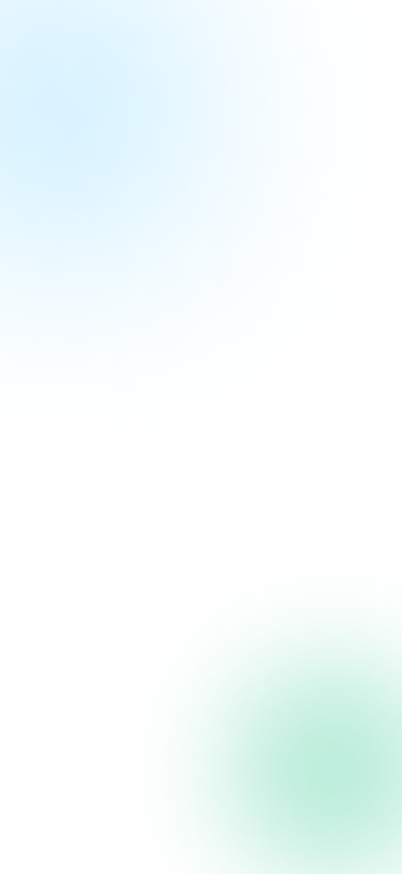
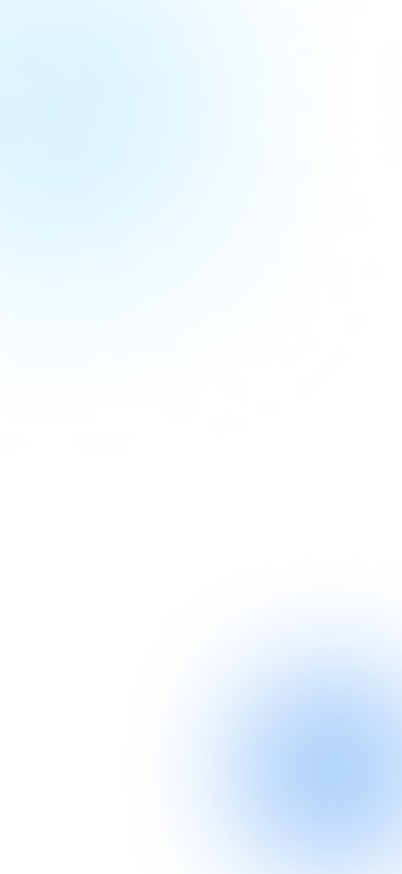
change colors from green to blue

Changed region(s): [[0.6866, 0.8032, 0.9851, 0.9577]]

diff --git a/app/(tabs)/index.tsx b/app/(tabs)/index.tsx
@@ -27,13 +27,27 @@ export default function TabSettingsScreen() {
   const router = useRouter();
   const { clickedTab } = useClickedTab();
 
-  const { setIpsData } = useIpsData();
+  const { setIpsData, ipsData } = useIpsData();
+  // Load the patient ID from SecureStore when the component mounts
+  useEffect(() => {
+    const loadPatientId = async () => {
+      try {
+        const savedPatientId = await SecureStore.getItemAsync("patientId");
+
+        setPatientId(savedPatientId);
+        setInputValue(savedPatientId || "");
+      } catch (error) {
+        console.error("Error loading patient ID:", error);
+      }
+    };
+    loadPatientId();
+  }, []);
 
   useEffect(() => {
-    if (!patientId) {
+    if (!patientId || !ipsData) {
       refRBSheet?.current.open();
     }
-  }, [clickedTab,patientId]);
+  }, [clickedTab, ipsData, patientId]);
 
   useFocusEffect(
     React.useCallback(() => {
@@ -55,6 +69,7 @@ export default function TabSettingsScreen() {
     try {
       await SecureStore.setItemAsync("patientId", inputValue);
       setPatientId(inputValue);
+
       Toast.show({
         type: "success",
         text1: "Success",
@@ -90,7 +105,7 @@ export default function TabSettingsScreen() {
         router.push({
           pathname: "/modal",
           params: {
-            fhirData: yaml.dump(ipsData.resources[0]), // Use the first resource for demo purposes
+            fhirData: yaml.dump(ipsData?.resources?.[0]), // Use the first resource for demo purposes
             title: `Patient ${patientId} Data`,
           },
         });
@@ -141,7 +156,7 @@ export default function TabSettingsScreen() {
               type={"ionicon"}
               name={"information-circle"}
               size={38}
-              color="#154E47"
+              color="#3A90F3"
             />
             <Text style={styles.infoTitle}> ID Required</Text>
           </View>
@@ -161,7 +176,7 @@ export default function TabSettingsScreen() {
         <TextInput
           style={[
             styles.input,
-            { backgroundColor: theme == "light" ? "" : "#154E474D" },
+            { backgroundColor: theme == "light" ? "" : "#0573F026" },
             { borderColor: theme === "light" ? "" : "#FFFFFF" },
           ]}
           placeholder="Enter Patient ID"
@@ -185,7 +200,7 @@ export default function TabSettingsScreen() {
               type={"fontawesome6"}
               name={"download"}
               size={24}
-              color="#154E47"
+              color="#2563EA"
             />
             <Text style={styles.downloadTitle}> Download</Text>
           </TouchableOpacity>
@@ -195,7 +210,7 @@ export default function TabSettingsScreen() {
   };
 
   return (
-    <SafeAreaView style={styles.mainContainer}>
+    <View style={styles.mainContainer}>
       {theme === "dark" ? (
         settingsMainContent()
       ) : (
@@ -207,7 +222,7 @@ export default function TabSettingsScreen() {
           {settingsMainContent()}
         </ImageBackground>
       )}
-    </SafeAreaView>
+    </View>
   );
 }
 
@@ -270,7 +285,7 @@ const styles = StyleSheet.create({
   infoTitle: {
     fontSize: 18,
     marginLeft: 10,
-    color: "#83B0AB",
+    color: "#3A90F3",
   },
   closeButton: {
     padding: 10,
@@ -283,7 +298,7 @@ const styles = StyleSheet.create({
   },
   infoDescription: { fontWeight: 700 },
   downloadTitle: {
-    color: "#154E47",
+    color: "#2563EA",
     alignItems: "center",
     justifyContent: "center",
     fontWeight: 700,
@@ -296,7 +311,7 @@ const styles = StyleSheet.create({
     width: "100%",
   },
   button: {
-    backgroundColor: "#B7E0E1",
+    backgroundColor: "#CEE5FF",
     borderRadius: 20,
     paddingVertical: 10,
     paddingHorizontal: 20,

diff --git a/constants/Colors.ts b/constants/Colors.ts
@@ -1,6 +1,6 @@
 // constants/Colors.ts
 
-const tintColorLight = "#248479";
+const tintColorLight = "#2563EA";
 const tintColorDark = "#fff";
 
 const lightColors = {
@@ -10,13 +10,13 @@ const lightColors = {
   tabIconDefault: "#ccc",
   tabIconSelected: tintColorLight,
   border: "#ccc", // Light border
-  icon: "#248479", // green icon in light mode
+  icon: "#2563EA", // green icon in light mode
   placeholder: "#888", // Light input placeholder,
-  selected: "#2484792B",
+  selected: "#2563EA2B",
   tabBarBackground: "#fff",
   cardBackground: "#fff",
   label: "#000",
-  tileBackground: "#B7E0E1",
+  tileBackground: "#CEE5FF",
 };
 
 const darkColors = {
@@ -26,13 +26,13 @@ const darkColors = {
   tabIconDefault: "#ccc",
   tabIconSelected: tintColorDark,
   border: "#fff", // White border
-  icon: "#248479", // White icon in dark mode
+  icon: "#2563EA", // White icon in dark mode
   placeholder: "#aaa", // Dark input placeholder,
-  selected: "#2484792B",
-  tabBarBackground: "#154E47",
-  cardBackground: "#2475655E",
+  selected: "#FFFFFF2B",
+  tabBarBackground: "#2563EA",
+  cardBackground: "#2563EA26",
   label: "#fff",
-  tileBackground: "#2475655E",
+  tileBackground: "#2563EA26",
 };
 
 export default {

diff --git a/app/(tabs)/_layout.tsx b/app/(tabs)/_layout.tsx
@@ -7,6 +7,7 @@ import { useColorScheme } from "@/components/useColorScheme";
 import { useClientOnlyValue } from "@/components/useClientOnlyValue";
 import * as SecureStore from "expo-secure-store";
 import { useClickedTab } from "@/components/clickedTabContext";
+import { useIpsData } from "@/components/IpsDataContext";
 
 // You can explore the built-in icon families and icons on the web at https://icons.expo.fyi/
 function TabBarIcon(props: {
@@ -21,6 +22,7 @@ export default function TabLayout() {
   const navigation = useNavigation(); // Access navigation object
 
   const { clickedTab, setClickedTab } = useClickedTab();
+  const { ipsData } = useIpsData();
 
   const handleTabPress = async (e: any, routeName: string) => {
     // Call e.preventDefault() immediately to block navigation
@@ -29,7 +31,7 @@ export default function TabLayout() {
     try {
       setClickedTab(!clickedTab);
       const patientId = await SecureStore.getItemAsync("patientId");
-      if (patientId) {
+      if (patientId &&ipsData) {
         navigation.navigate(routeName as never);
       }
     } catch (error) {

diff --git a/components/card.tsx b/components/card.tsx
@@ -70,7 +70,7 @@ const styles = StyleSheet.create({
     shadowRadius: 4,
     elevation: 2,
     borderWidth: 1,
-    borderColor: "#38A8A8",
+    borderColor: "#2563EA",
   },
   rowContainer: {
     flexDirection: "row",
@@ -80,7 +80,6 @@ const styles = StyleSheet.create({
   iconContainer: {
     width: 50,
     height: 50,
-    backgroundColor: "#154E47",
     justifyContent: "center",
     alignItems: "center",
     marginRight: 12,
@@ -115,7 +114,7 @@ const styles = StyleSheet.create({
   },
   statusContainer: {
     alignSelf: "flex-end",
-    backgroundColor: "#82C4BC",
+    backgroundColor: "#2D77FEC7",
     paddingHorizontal: 5,
     paddingVertical: 1,
     borderRadius: 12,

diff --git a/app/(tabs)/ips.tsx b/app/(tabs)/ips.tsx
@@ -47,15 +47,15 @@ export default function TabIpsScreen() {
 
   // Extract codes from ipsData.sections
   const sectionCodes =
-    ipsData?.sections.map((section: any) => section.code.coding[0].code) || [];
+    ipsData?.sections?.map((section: any) => section.code.coding[0].code) || [];
 
   // Filter tiles based on section codes
   const filteredTiles = IPS_TILES.filter((tile) =>
-    sectionCodes.includes(tile.code)
+    sectionCodes?.includes(tile.code)
   );
 
   const patientName = fhirpath.evaluate(
-    ipsData?.resources[0].resource,
+    ipsData?.resources[0]?.resource,
     "Patient.name.where(use='official').given.first()"
   );
 

diff --git a/components/customToast.tsx b/components/customToast.tsx
@@ -10,7 +10,7 @@ const CustomToast = () => {
     success: (props) => (
       <BaseToast
         {...props}
-        style={{ borderLeftColor: "#154E47", backgroundColor: "#B7E0E1" }}
+        style={{ borderLeftColor: "#2563EA", backgroundColor: "#CEE5FF" }}
         text1Style={{
           fontSize: 15,
           fontWeight: "bold",

diff --git a/components/loader.tsx b/components/loader.tsx
@@ -41,7 +41,7 @@ const styles = StyleSheet.create({
     width: 80,
     height: 80,
     borderRadius: 50,
-    backgroundColor: "#B7E0E1",
+    backgroundColor: "#CEE5FF",
     justifyContent: "center",
     alignItems: "center",
   },
